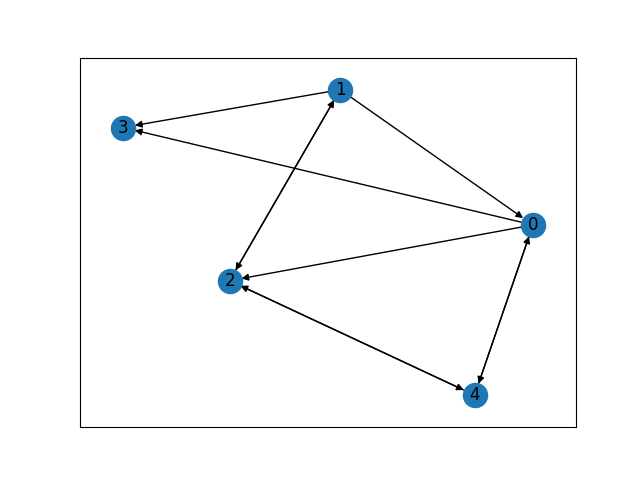
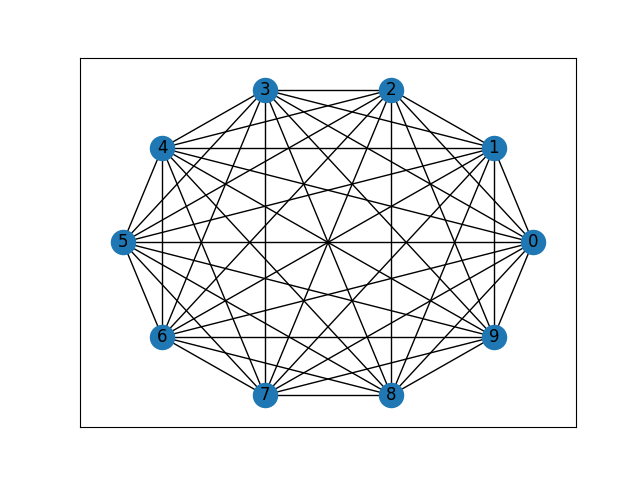
lots of micro-level experiments!

Changed region(s): [[0.1562, 0.1562, 0.875, 0.875]]

diff --git a/environment_built_new/main_new.py b/environment_built_new/main_new.py
@@ -13,7 +13,7 @@ import numpy as np
 
 
 start_time = datetime.now()
-num_agent = 5
+num_agent = 10
 game_length = 1
 
 
@@ -29,7 +29,7 @@ observation_list = -np.ones((len(llm_agents), len(llm_agents), 2))
 agent_index = np.arange(5)
 
 # g = nx.complete_graph(n=len(llm_agents))
-g = nx.erdos_renyi_graph(n=len(llm_agents), p=0.5, directed=True)
+g = nx.erdos_renyi_graph(n=len(llm_agents), p=1, directed=False)
 
 pos = nx.kamada_kawai_layout(g)
 
@@ -62,9 +62,21 @@ def convert_str_to_int(action):
     else:
         print(f'Invalid action: {action}')
         return -1
+    
+def stat_analysis(all_actuons):
+    # this list is a list of C and D actions.
+    # count them and print the ration of C and D.
+    np_actions = np.array(all_actions)
+    print(f'Total actions: {len(all_actions)}')
+    print(f'Total C: {np.sum(np_actions == 'C')}')
+    print(f'Total D: {np.sum(np_actions == 'D')}') 
+    print(f'Ratio of C: %{round(np.sum(np_actions == "C") / len(all_actions), 2) * 100}')
+    print(f'Ratio of D: %{round(np.sum(np_actions == "D") / len(all_actions), 2) * 100}')
+    print("--------------------")
 
 fig = save_graph(g, pos, step=-1)
 for step in range(game_length):
+    all_actions = []
     # inner loop for agents
     for i in range(len(llm_agents)):
         llm_agents[i].orbit.orbit_step += 1
@@ -84,7 +96,7 @@ for step in range(game_length):
             time_try = 0
 
             action_ij = orbit.env_step(llm_agents, i, neighbor_index[j], observation_list, adj_matrix[i], observation_list[i])
-            
+            all_actions.append(action_ij)
             # while flag:
                 
             #     try:
@@ -102,13 +114,14 @@ for step in range(game_length):
 
             observation_list[i, neighbor_index[j], 0] = convert_str_to_int(action_ij)
             # observation_list[i, neighbor_index[j], 1] = action_ji
-            print(f'Round {step}, agent {i} vs agent {neighbor_index[j]}, action: {action_ij}')
+            # print(f'Round {step}, agent {i} vs agent {neighbor_index[j]}, action: {action_ij}')
 
         # change_network(g, i, action_con, action_dis)
     
-    fig = save_graph(g, pos, step)
+    # fig = save_graph(g, pos, step)
+    stat_analysis(all_actions)
     
-plt.close(fig)
+# plt.close(fig)
 print(f'Total time: {round(time.time() - initial_time, 2)}')
 
 # plt.show()

diff --git a/environment_built_new/orbit.py b/environment_built_new/orbit.py
@@ -66,7 +66,7 @@ class Orbit():
         # orbit.orbit_step += 1
 
         # actions_temp, action_con, action_tar = agents[your_index].step(observation[your_index, opponent_index], your_index, connection_status, others_last_action_list)
-        actions_temp = agents[your_index].step(observation[your_index, opponent_index], your_index, connection_status, others_last_action_list)
+        actions_temp = agents[your_index].step(observation[your_index, opponent_index], your_index, opponent_index, connection_status, others_last_action_list)
 
         # return actions_temp, action_con, action_tar
         return actions_temp

diff --git a/environment_built_new/utils/provider.py b/environment_built_new/utils/provider.py
@@ -74,8 +74,6 @@ class Provider:
         response = self.client.invoke(messages)
         # print(response)
         # response = json.loads(response.content)
-        print(response.content)
-        print("----------------------------------------")
         return response
 
     def get_messages(self):
